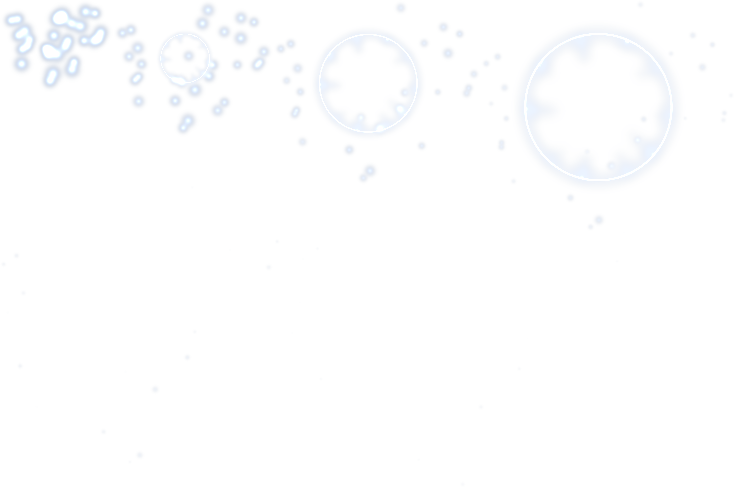
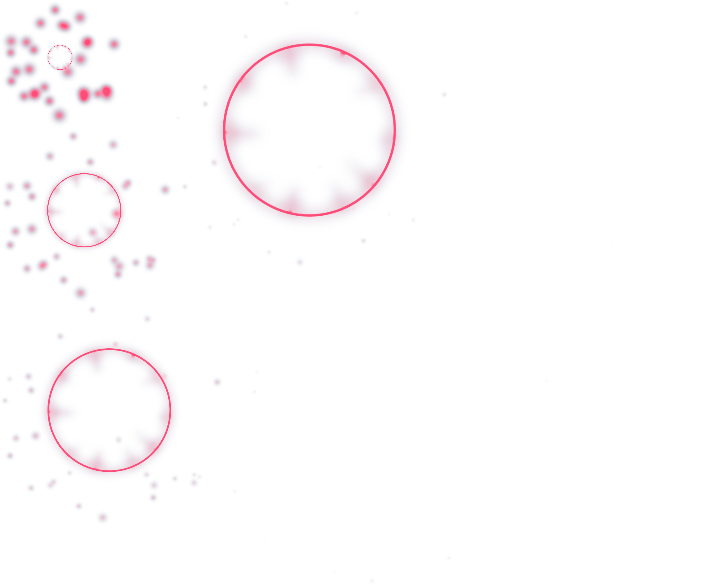
特效刪除發光濾鏡

diff --git a/bin/js/bundle.js b/bin/js/bundle.js
@@ -622,7 +622,7 @@
             ];
             let glowFilter = new Laya.GlowFilter("#8400ff", 50, 0, 0);
             let colorFilter = new Laya.ColorFilter(colorMat);
-            this.m_animation.filters = [glowFilter, colorFilter];
+            this.m_animation.filters = [colorFilter];
             this.m_animation.on(Laya.Event.COMPLETE, this, function () {
                 this.m_animation.destroy();
                 this.m_animation.destroyed = true;
@@ -720,7 +720,7 @@
             let colorFilter = new Laya.ColorFilter(colorMat);
             this.m_animation.filters = [glowFilter, colorFilter];
             let colorFilterex = new Laya.ColorFilter(colorMat);
-            explosion.filters = [glowFilter, colorFilter];
+            explosion.filters = [colorFilter];
             let count = 0;
             let timer = setInterval(() => {
                 if (count >= this.m_lastTime * 1000) {
@@ -937,7 +937,7 @@
             ];
             let glowFilter = new Laya.GlowFilter("#9b05ff", 20, 0, 0);
             let colorFilter = new Laya.ColorFilter(colorMat);
-            this.m_animation.filters = [glowFilter, colorFilter];
+            this.m_animation.filters = [colorFilter];
             this.m_animation.skewY = rightSide ? 0 : 180;
             owner.delayMove(this.m_lastTime);
             owner.m_rigidbody.linearVelocity = { x: rightSide ? this.m_spikeVec : -this.m_spikeVec };
@@ -1019,7 +1019,7 @@
             ];
             let glowFilter = new Laya.GlowFilter("#0065ff", 8, 0, 0);
             let colorFilter = new Laya.ColorFilter(colorMat);
-            this.m_animation.filters = [glowFilter, colorFilter];
+            this.m_animation.filters = [colorFilter];
             this.m_animation.on(Laya.Event.COMPLETE, this, function () {
                 this.m_animation.destroy();
                 this.m_animation.destroyed = true;
@@ -2587,7 +2587,7 @@
             ];
             let glowFilter = new Laya.GlowFilter("#ffffff", 10, 0, 0);
             let colorFilter = new Laya.ColorFilter(colorMat);
-            slashEffect.filters = [colorFilter, glowFilter];
+            slashEffect.filters = [colorFilter];
             slashEffect.on(Laya.Event.COMPLETE, this, function () {
                 slashEffect.destroy();
                 slashEffect.destroyed = true;
@@ -2749,14 +2749,14 @@
             bloodEffect.interval = 30;
             bloodEffect.zOrder = 5;
             let colorMat = [
-                2, 0, 0, 0, 300,
-                0, 1, 0, 0, 300,
-                0, 0, 1, 0, 300,
+                2, 1, 1, 0, -100,
+                0, 1, 0, 0, -100,
+                0, 0, 1, 0, -100,
                 0, 0, 0, 1, 0,
             ];
             let glowFilter = new Laya.GlowFilter("#ff0028", 10, 0, 0);
             let colorFilter = new Laya.ColorFilter(colorMat);
-            bloodEffect.filters = [glowFilter, colorFilter];
+            bloodEffect.filters = [colorFilter];
             bloodEffect.pos(enemy.x - 325, enemy.y - 310);
             bloodEffect.source = "comp/Hurt.atlas";
             bloodEffect.on(Laya.Event.COMPLETE, this, function () {
@@ -3056,8 +3056,8 @@
             ];
             let colorFilter = new Laya.ColorFilter(oathColorMat);
             let glowFilter_charge = new Laya.GlowFilter("#df6ef4", 10, 0, 0);
-            CharacterInit.playerEnt.m_animation.filters = (CharacterInit.playerEnt.m_bloodyPoint >= CharacterInit.playerEnt.m_maxBloodyPoint_soft) ? [glowFilter_charge, colorFilter] : [];
-            CharacterInit.playerEnt.m_oathManager.characterLogo.filters = (CharacterInit.playerEnt.m_bloodyPoint >= CharacterInit.playerEnt.m_maxBloodyPoint_soft) ? [glowFilter_charge, colorFilter] : [];
+            CharacterInit.playerEnt.m_animation.filters = (CharacterInit.playerEnt.m_bloodyPoint >= CharacterInit.playerEnt.m_maxBloodyPoint_soft) ? [colorFilter] : [];
+            CharacterInit.playerEnt.m_oathManager.characterLogo.filters = (CharacterInit.playerEnt.m_bloodyPoint >= CharacterInit.playerEnt.m_maxBloodyPoint_soft) ? [colorFilter] : [];
             CharacterInit.playerEnt.m_oathManager.oathUpdate();
         }
     }
@@ -3312,7 +3312,7 @@
             ];
             let glowFilter = new Laya.GlowFilter("#ffffff", 40, 0, 0);
             let colorFilter = new Laya.ColorFilter(colorMat);
-            slashLightEffect.filters = [glowFilter, colorFilter];
+            slashLightEffect.filters = [colorFilter];
             slashLightEffect.pos(this.m_isFacingRight ? enemy.x - 760 : enemy.x - 760, enemy.y - 640 + 30);
             slashLightEffect.source = sourceArray[sourceNum];
             slashLightEffect.alpha = 1;
@@ -3472,7 +3472,7 @@
             ];
             let glowFilter = new Laya.GlowFilter("#ef1ff8", 3, 0, 0);
             let colorFilter = new Laya.ColorFilter(colorMat);
-            this.m_animation.filters = [colorFilter, glowFilter];
+            this.m_animation.filters = [colorFilter];
             setTimeout(() => {
                 if (!this.m_animation || this.m_animation.destroyed) {
                     return;
@@ -3687,7 +3687,7 @@
             ];
             let glowFilter = new Laya.GlowFilter("#ffffff", 10, 0, 0);
             let colorFilter = new Laya.ColorFilter(colorMat);
-            this.dirtEffect.filters = [colorFilter, glowFilter];
+            this.dirtEffect.filters = [colorFilter];
             this.dirtEffect.alpha = 0.5;
             Laya.stage.addChild(this.dirtEffect);
             this.dirtEffect.play();

diff --git a/src/script/CharacterInit.ts b/src/script/CharacterInit.ts
@@ -716,7 +716,7 @@ export class Character extends Laya.Script {
         let glowFilter: Laya.GlowFilter = new Laya.GlowFilter("#ffffff", 10, 0, 0);
         let colorFilter: Laya.ColorFilter = new Laya.ColorFilter(colorMat);
         // if (!OathManager.isCharging) {
-        slashEffect.filters = [colorFilter, glowFilter];
+        slashEffect.filters = [colorFilter];
         // } else {
         // let colorMat_charge: Array<number> =
         //     [
@@ -935,15 +935,15 @@ export class Character extends Laya.Script {
         bloodEffect.zOrder = 5;
         let colorMat: Array<number> =
             [
-                2, 0, 0, 0, 300, //R
-                0, 1, 0, 0, 300, //G
-                0, 0, 1, 0, 300, //B
+                2, 1, 1, 0, -100, //R
+                0, 1, 0, 0, -100, //G
+                0, 0, 1, 0, -100, //B
                 0, 0, 0, 1, 0, //A
             ];
         let glowFilter: Laya.GlowFilter = new Laya.GlowFilter("#ff0028", 10, 0, 0);
         let colorFilter: Laya.ColorFilter = new Laya.ColorFilter(colorMat);
 
-        bloodEffect.filters = [glowFilter, colorFilter];
+        bloodEffect.filters = [colorFilter];
         bloodEffect.pos(enemy.x - 325, enemy.y - 310);
         bloodEffect.source = "comp/Hurt.atlas";
         bloodEffect.on(Laya.Event.COMPLETE, this, function () {
@@ -1350,8 +1350,8 @@ export default class CharacterInit extends Laya.Script {
             ];
         let colorFilter: Laya.ColorFilter = new Laya.ColorFilter(oathColorMat);
         let glowFilter_charge: Laya.GlowFilter = new Laya.GlowFilter("#df6ef4", 10, 0, 0);
-        CharacterInit.playerEnt.m_animation.filters = (CharacterInit.playerEnt.m_bloodyPoint >= CharacterInit.playerEnt.m_maxBloodyPoint_soft) ? [glowFilter_charge, colorFilter] : [];
-        CharacterInit.playerEnt.m_oathManager.characterLogo.filters = (CharacterInit.playerEnt.m_bloodyPoint >= CharacterInit.playerEnt.m_maxBloodyPoint_soft) ? [glowFilter_charge, colorFilter] : [];
+        CharacterInit.playerEnt.m_animation.filters = (CharacterInit.playerEnt.m_bloodyPoint >= CharacterInit.playerEnt.m_maxBloodyPoint_soft) ? [colorFilter] : [];
+        CharacterInit.playerEnt.m_oathManager.characterLogo.filters = (CharacterInit.playerEnt.m_bloodyPoint >= CharacterInit.playerEnt.m_maxBloodyPoint_soft) ? [colorFilter] : [];
 
         //更新誓約所影響的數值變化
         CharacterInit.playerEnt.m_oathManager.oathUpdate();

diff --git a/src/script/EnemyHandler.ts b/src/script/EnemyHandler.ts
@@ -346,7 +346,7 @@ export abstract class VirtualEnemy extends Laya.Script {
             ];
         let glowFilter: Laya.GlowFilter = new Laya.GlowFilter("#ffffff", 40, 0, 0);
         let colorFilter: Laya.ColorFilter = new Laya.ColorFilter(colorMat);
-        slashLightEffect.filters = [glowFilter, colorFilter];
+        slashLightEffect.filters = [colorFilter];
         //enemy.x + 6 * rotation - 220 : enemy.x + 6 * rotation - 320,checkRotation ? enemy.y + 0.1 * rotation - 250 + 30 : enemy.y - 2.2 * rotation - 250 + 30
         slashLightEffect.pos(this.m_isFacingRight ? enemy.x - 760 : enemy.x - 760, enemy.y - 640 + 30);//y軸需再修正
         slashLightEffect.source = sourceArray[sourceNum];
@@ -548,7 +548,7 @@ export abstract class VirtualEnemy extends Laya.Script {
             ];
         let glowFilter: Laya.GlowFilter = new Laya.GlowFilter("#ef1ff8", 3, 0, 0);
         let colorFilter: Laya.ColorFilter = new Laya.ColorFilter(colorMat);
-        this.m_animation.filters = [colorFilter, glowFilter];
+        this.m_animation.filters = [colorFilter];
         setTimeout(() => {
             if(!this.m_animation || this.m_animation.destroyed){
                 return;

diff --git a/src/script/SkillCat.ts b/src/script/SkillCat.ts
@@ -47,7 +47,7 @@ export class Slam extends VirtualSkill {
             ];
         let glowFilter: Laya.GlowFilter = new Laya.GlowFilter("#8400ff", 50, 0, 0);
         let colorFilter: Laya.ColorFilter = new Laya.ColorFilter(colorMat);
-        this.m_animation.filters = [glowFilter, colorFilter];
+        this.m_animation.filters = [colorFilter];
         this.m_animation.on(Laya.Event.COMPLETE, this, function () {
             this.m_animation.destroy();
             this.m_animation.destroyed = true;
@@ -163,7 +163,7 @@ export class BlackHole extends VirtualSkill {
         let colorFilter: Laya.ColorFilter = new Laya.ColorFilter(colorMat);
         this.m_animation.filters = [glowFilter, colorFilter];
         let colorFilterex: Laya.ColorFilter = new Laya.ColorFilter(colorMat);
-        explosion.filters = [glowFilter, colorFilter];
+        explosion.filters = [colorFilter];
 
         //Laya.stage.graphics.drawCircle(offsetX, offsetY, this.m_radius, 'black', 'white', 1);
         //Laya.stage.graphics.drawCircle(offsetX, offsetY, this.m_radius + 100, 'black', 'white', 1);

diff --git a/src/script/SkillHuman.ts b/src/script/SkillHuman.ts
@@ -54,7 +54,7 @@ export class Spike extends VirtualSkill {
         let glowFilter: Laya.GlowFilter = new Laya.GlowFilter("#9b05ff", 20, 0, 0);
         let colorFilter: Laya.ColorFilter = new Laya.ColorFilter(colorMat);
 
-        this.m_animation.filters = [glowFilter, colorFilter];
+        this.m_animation.filters = [colorFilter];
         this.m_animation.skewY = rightSide ? 0 : 180;
 
         owner.delayMove(this.m_lastTime);
@@ -155,7 +155,7 @@ export class Behead extends VirtualSkill {
         ];
     let glowFilter: Laya.GlowFilter = new Laya.GlowFilter("#0065ff", 8, 0, 0);
     let colorFilter: Laya.ColorFilter = new Laya.ColorFilter(colorMat);
-    this.m_animation.filters = [glowFilter, colorFilter];
+    this.m_animation.filters = [colorFilter];
         this.m_animation.on(Laya.Event.COMPLETE, this, function () {
             this.m_animation.destroy();
             this.m_animation.destroyed = true;

diff --git a/src/script/MainToLoading.ts b/src/script/MainToLoading.ts
@@ -33,7 +33,7 @@ export default class MainToLoading extends Laya.Script{
             ];
         let glowFilter: Laya.GlowFilter = new Laya.GlowFilter("#ffffff", 10, 0, 0);
         let colorFilter: Laya.ColorFilter = new Laya.ColorFilter(colorMat);
-        this.dirtEffect.filters = [colorFilter, glowFilter];
+        this.dirtEffect.filters = [colorFilter];
         this.dirtEffect.alpha = 0.5;
         // this.dirtEffect.on(Laya.Event.COMPLETE, this, function () {
         //     this.dirtEffect.destroy();
